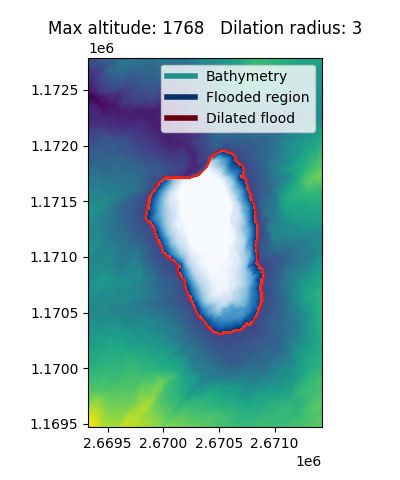
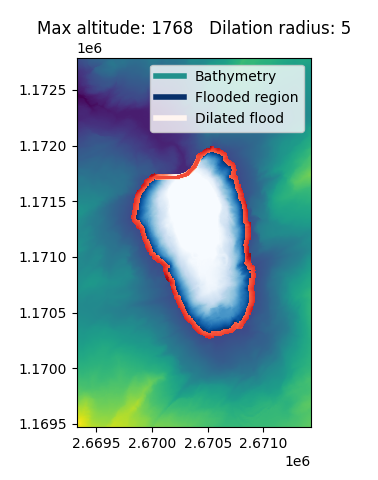
clearer legend

diff --git a/Tsunami/qinit.py b/Tsunami/qinit.py
@@ -51,7 +51,7 @@ def pick_seed(z_im, x, y, res=0):
     ax.legend(
         [Line2D([0], [0], color=imb.get_cmap()(0.5), lw=4),
          Line2D([0], [0], color=imf.get_cmap()(1.), lw=4),
-         Line2D([0], [0], color=imd.get_cmap()(1.), lw=4)],
+         Line2D([0], [0], color=imd.get_cmap()(0.), lw=4)],
         ("Bathymetry", "Flooded region", "Dilated flood")
     )
 
